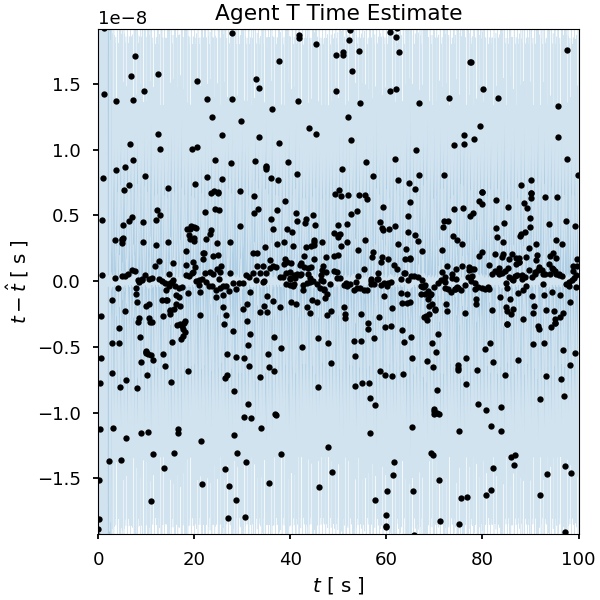
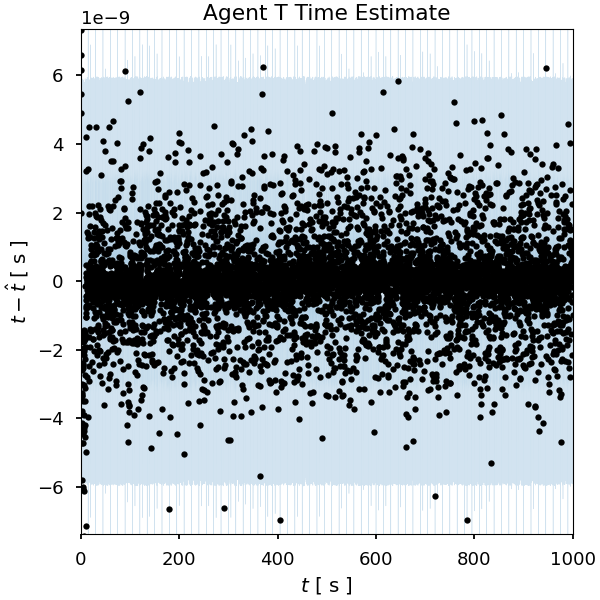
fixed centralized filter

diff --git a/pntddf/estimator.py b/pntddf/estimator.py
@@ -29,11 +29,11 @@ class Estimator:
         if measurement.local:
             measurement.time_process_local = self.agent.clock.time()
             measurement.x_true = self.filt.state_log.get_true()
+            self.run_centralized_filter(copy(measurement))
         else:
             measurement.time_process_external = self.agent.clock.time()
 
         self.run_filter(measurement)
-        self.run_centralized_filter(copy(measurement))
 
     def run_filter(self, measurement):
         self.set_time(measurement)

diff --git a/pntddf/main.py b/pntddf/main.py
@@ -7,8 +7,8 @@ from pntddf.results import (plot_b, plot_b_dot, plot_residuals,
                             plot_rover_state_errors, plot_test, plot_time,
                             plot_trajectory)
 
-config_file = "../config/sim.config"
-# config_file = "../config/1d.config"
+# config_file = "../config/sim.config"
+config_file = "../config/1d.config"
 
 env = setup_env(config_file)
 
